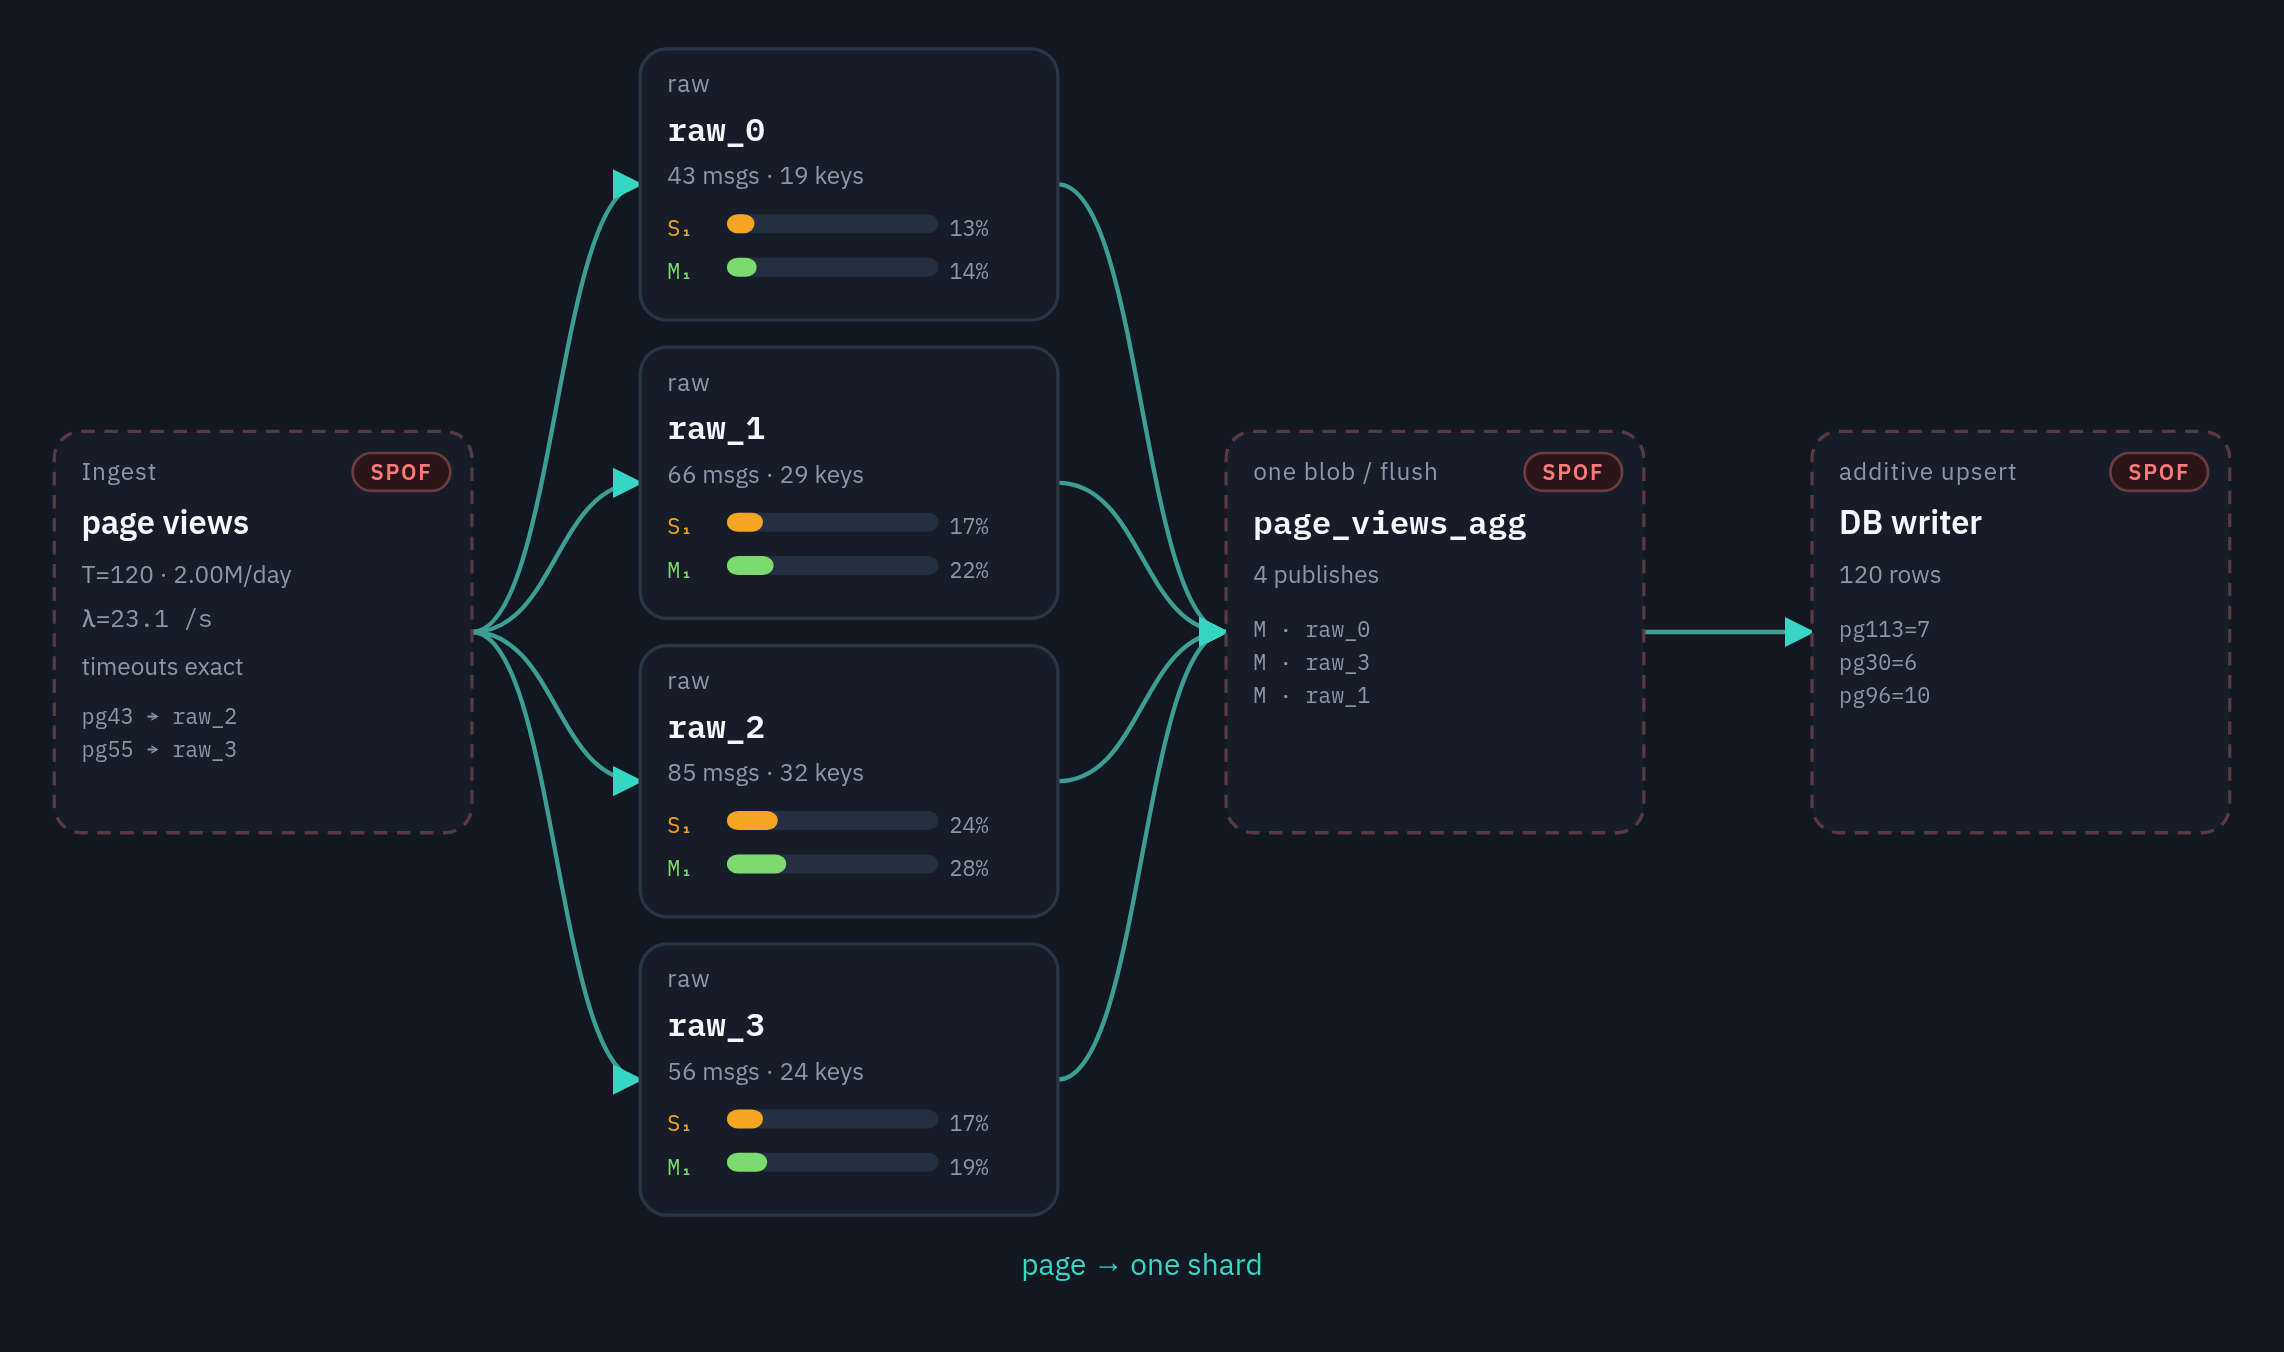
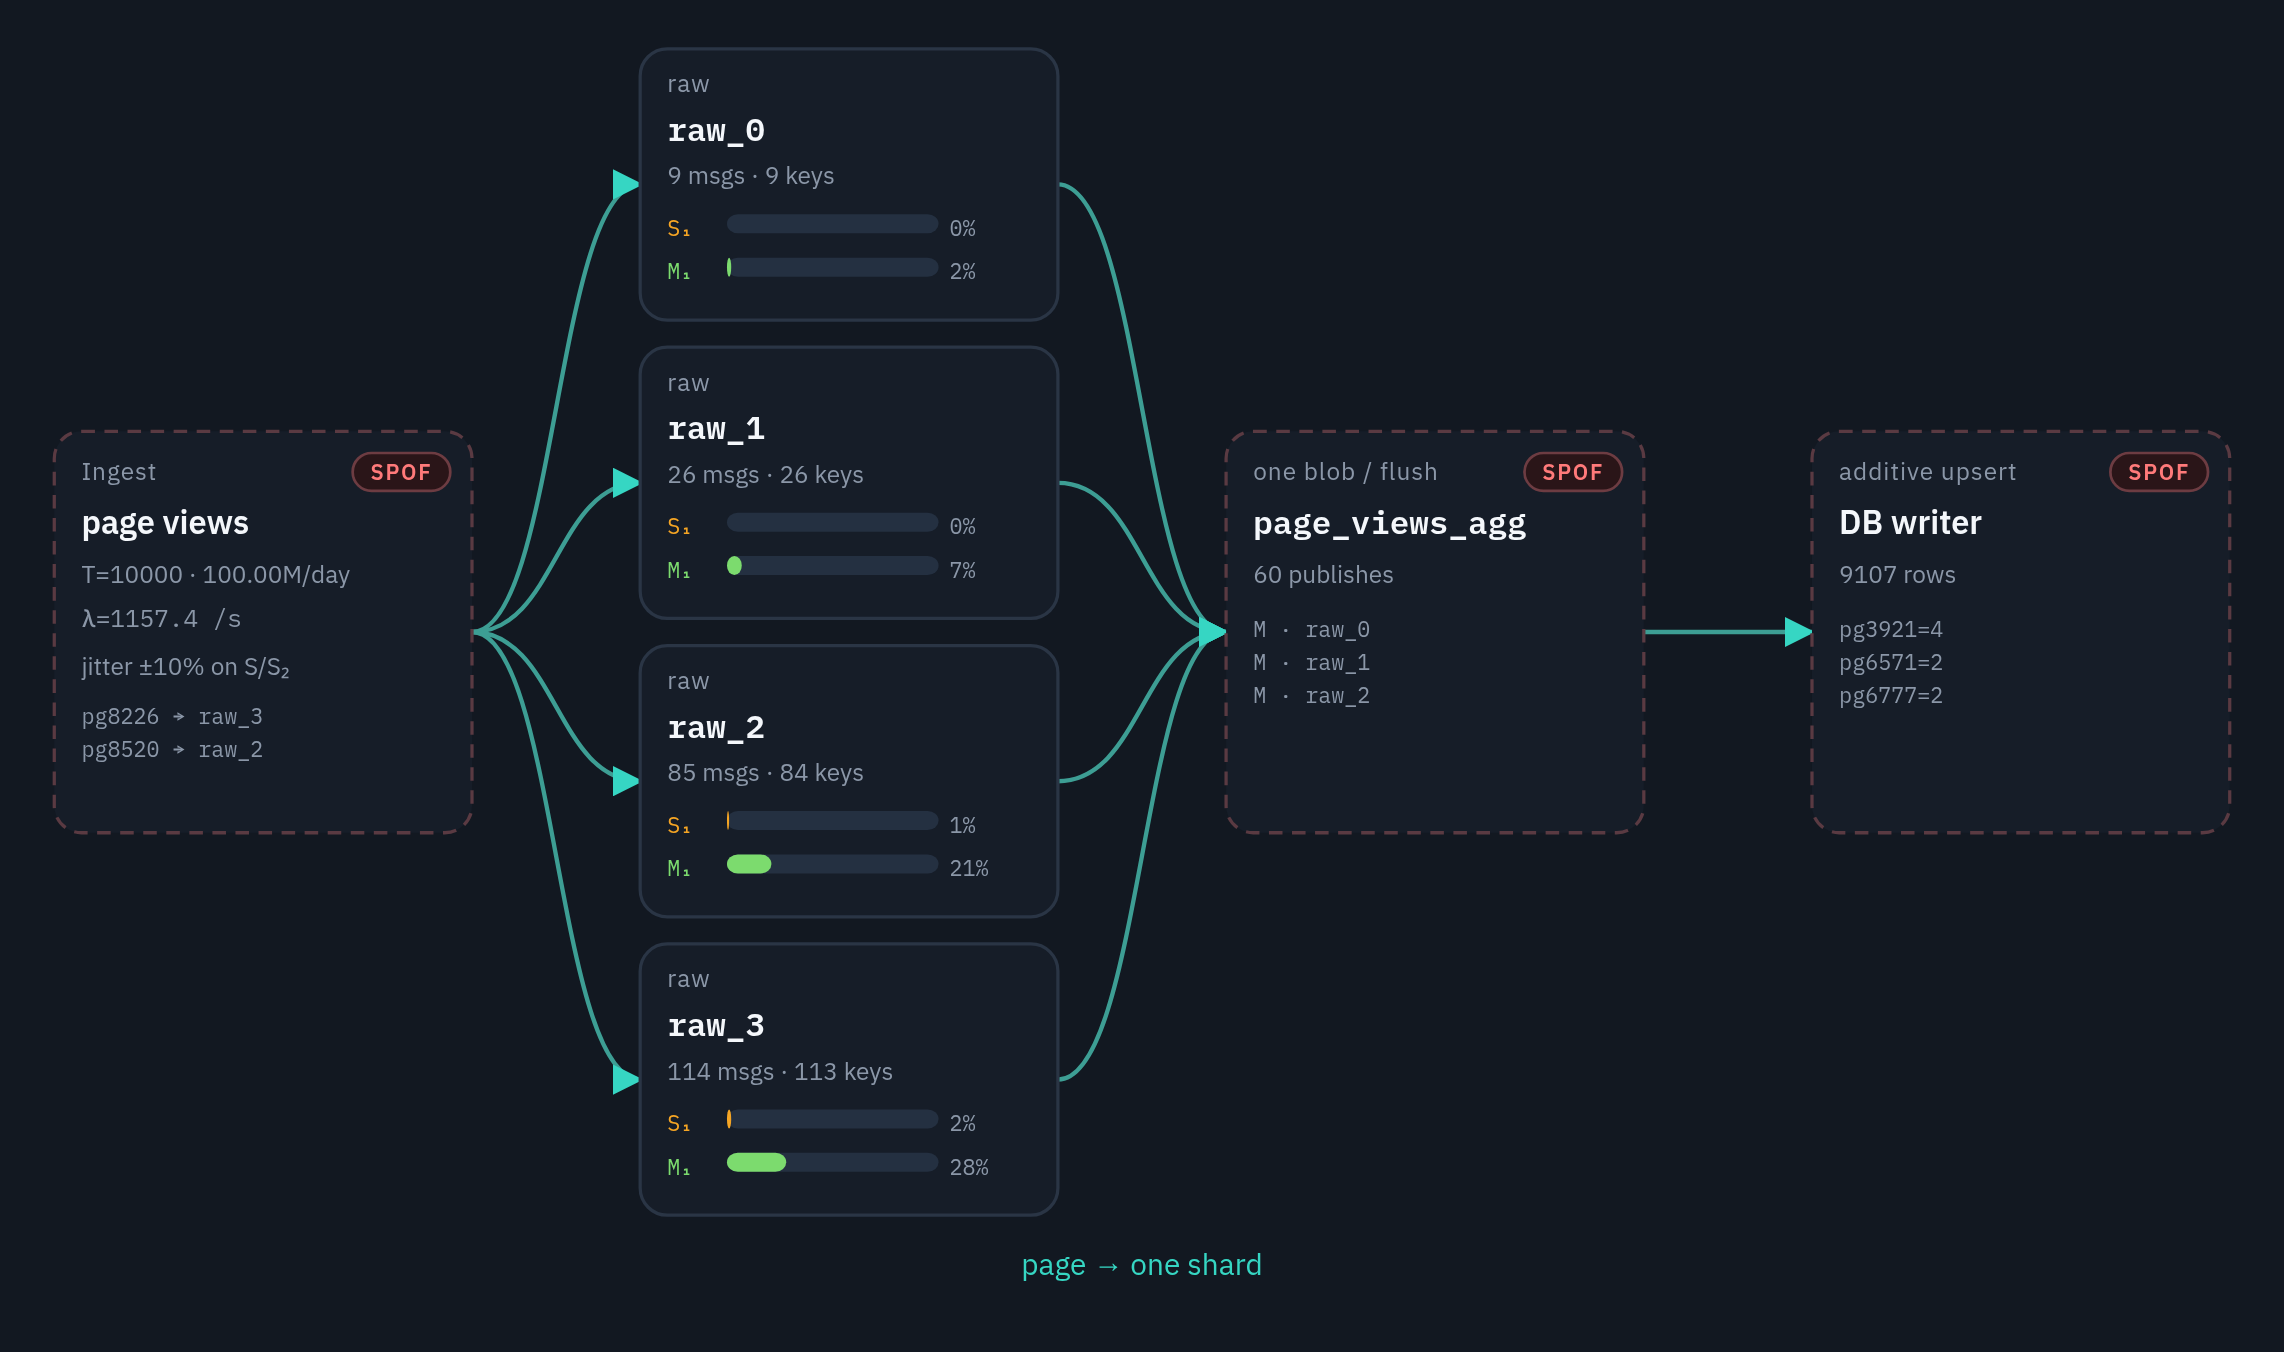
docs: recapture architecture at N=4 with stage 2 off
Use the live share URL ?N=4&stage2=0, pause the sim, and crop the SVG
only. Caption names the single-stage / no-secondary-aggregation layout.

diff --git a/README.md b/README.md
@@ -63,7 +63,7 @@ and T are meters/labels on that skeleton; sticky hashing is the caption
 
 ![Architecture with N=4 raw shards and no mid-aggregation layer](docs/architecture-n4-single-stage.png)
 
-*N=4, single-stage (no mid aggregation): ingest → 4 raw queues → `page_views_agg` → DB.*
+*N=4, single-stage (no secondary aggregation): ingest → 4 raw queues → `page_views_agg` → DB.*
 
 **Timeout jitter** is one global toggle covering **all** timeouts: stage-1
 **S** and, when stage 2 is on, **S₂**. There are no per-stage switches. Off:
